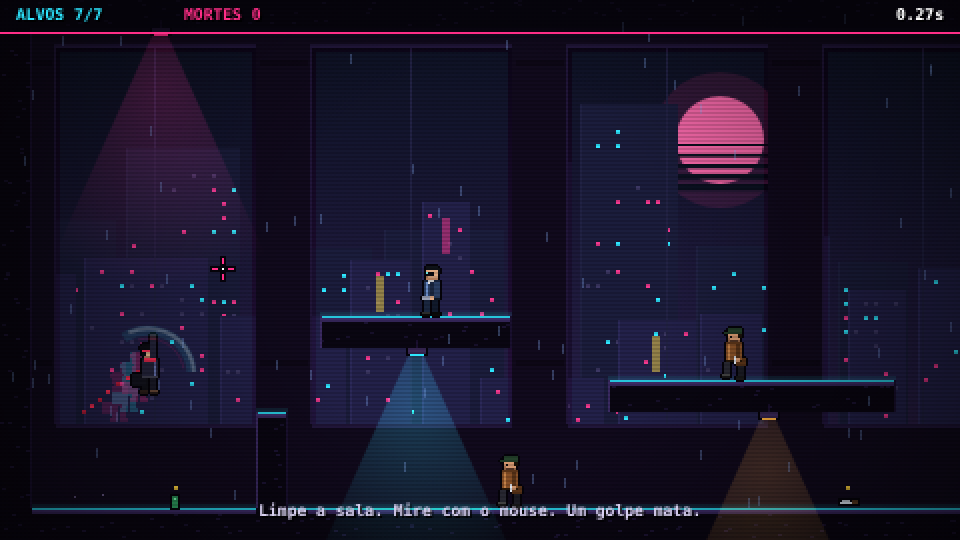
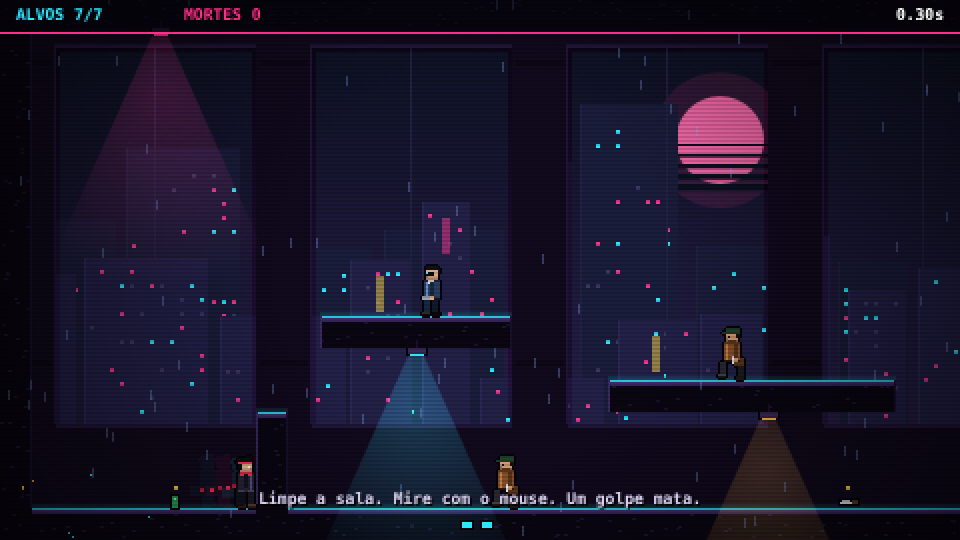
feat: replace slow-mo with Shift dash in mercenario spike
Shift dashes in 8 directions from WASD (toward the cursor with no key),
invulnerable while dashing, 2 air dashes that reset on ground or wall.
Slow-motion removed per playtest feedback.

Task: /prototype spike mercenario-spike-2026-11-20

Claude-Session: https://claude.ai/code/session_01LgXTLrRLZzJK2cJsyZyNnR

diff --git a/prototypes/mercenario-spike-2026-11-20/index.html b/prototypes/mercenario-spike-2026-11-20/index.html
@@ -33,7 +33,8 @@ const CONTROLS = [
   'S no chão: rolar (invencível)      S no ar: cair rápido',
   'CLIQUE ESQUERDO: golpe com avanço para onde o mouse aponta',
   'no ar: 2 avanços (recarregam no chão ou na parede) · golpeie balas para rebater',
-  'CLIQUE DIREITO / E: pegar, arremessar, atirar      SHIFT segurado: câmera lenta',
+  'SHIFT: dash (WASD escolhe a direção, sem tecla vai para o mouse) · 2 no ar',
+  'CLIQUE DIREITO / E: pegar, arremessar, atirar',
   'R: recomeçar sala   ESC / P: pausa   M: som',
 ];
 const clock = window.GAME_CLOCK || { now: () => performance.now() / 1000 };
@@ -127,7 +128,7 @@ const sfx = {
   walljump: () => tone(520, 0.09, 'square', 0.12, 1.5),
   land: () => noise(0.05, 0.12, 300),
   roll: () => noise(0.25, 0.12, 1500),
-  slowIn: () => tone(500, 0.35, 'sine', 0.15, 0.4),
+  dash: () => { noise(0.12, 0.25, 2000); tone(300, 0.12, 'sawtooth', 0.08, 2.5); },
   swing: () => { noise(0.09, 0.28, 3000); tone(900, 0.07, 'sawtooth', 0.06, 0.4); },
   kill: () => { noise(0.2, 0.4, 150); tone(90, 0.25, 'sawtooth', 0.25, 0.4); },
   deflect: () => { tone(1800, 0.12, 'square', 0.15, 0.6); noise(0.08, 0.3, 4000); },
@@ -241,13 +242,13 @@ function reset() {
 function restartRoom() {
   const p = { type: 'player', x: 3 * TS + 3, y: 16 * TS - 20.01, w: 10, h: 20, vx: 0, vy: 0, f: 1, alive: true,
     coyote: 0, buffer: 0, wallLock: 0, dashT: 0, attackT: 0, attackCd: 0, rollT: 0, rolling: false, aim: 0, aimY: 0,
-    airAttacks: tune.air_attacks, held: null, grounded: true, phase: 0, landed: 0, scarf: [], ghostTick: 0 };
+    airAttacks: tune.air_attacks, airDashes: tune.air_dashes, dashCd: 0, invT: 0, dashKind: '', held: null, grounded: true, phase: 0, landed: 0, scarf: [], ghostTick: 0 };
   for (let i = 0; i < 7; i++) p.scarf.push({ x: p.x, y: p.y + 6 });
   Object.assign(state, {
     t: 0, p, enemies: SPAWNS.map(s => makeActor(...s)),
     items: ITEMS.map(([type, c, r]) => ({ type, x: c * TS + 4, y: r * TS - 6, w: 8, h: 6, vx: 0, vy: 0, mode: 'ground', ammo: 0, spin: 0 })),
     bullets: [], parts: [], decals: [], ghosts: [], slashes: [], shake: 0, hitstop: 0, flash: 0, deadT: 0, clearT: 0,
-    cleared: false, kills: 0, cam: { x: 0, y: LH - H }, score: 0, glitch: 0.25, slowMeter: tune.slowmo_max, slowOn: false,
+    cleared: false, kills: 0, cam: { x: 0, y: LH - H }, score: 0, glitch: 0.25,
   });
   state.total = state.enemies.length;
 }
@@ -261,7 +262,7 @@ function killEnemy(e, dirX, dirY = -0.4) {
   sfx.kill(); events.push({ type: 'kill', enemy: e.type });
 }
 function killPlayer(dirX) {
-  const p = state.p; if (!p.alive || state.cleared || p.rolling) return; // rolando = invencível
+  const p = state.p; if (!p.alive || state.cleared || p.rolling || p.invT > 0) return; // rolando ou no dash = invencível
   if (p.rolling) endRoll(p);
   p.alive = false; state.deadT = tune.restart_delay; state.deaths++; state.shake = tune.shake * 1.5; state.glitch = tune.restart_delay;
   gore(p.x + p.w / 2, p.y + 8, dirX, 34); p.vx = dirX * 160; p.vy = -150;
@@ -294,10 +295,14 @@ function updatePlayer(dt) {
 
   const wasGround = p.grounded;
   p.grounded = onGround(p);
-  if (p.grounded) { p.coyote = tune.coyote_time; p.airAttacks = tune.air_attacks; } else p.coyote -= dt;
+  if (p.grounded) { p.coyote = tune.coyote_time; p.airAttacks = tune.air_attacks; p.airDashes = tune.air_dashes; } else p.coyote -= dt;
   if (p.grounded && !wasGround && p.vyBefore > 200) { sfx.land(); p.landed = 0.1; sparks(p.x + p.w / 2, p.y + p.h, '#6a5a8a', 5); }
   p.buffer = jumpHit ? tune.jump_buffer : p.buffer - dt;
-  p.wallLock -= dt; p.dashT -= dt; p.attackCd -= dt; p.landed -= dt;
+  p.wallLock -= dt; p.attackCd -= dt; p.landed -= dt; p.dashCd -= dt; p.invT -= dt;
+  const wasDash = p.dashT > 0; p.dashT -= dt;
+  if (wasDash && p.dashT <= 0 && p.dashKind === 'dash') { // fim do dash: perde parte da velocidade
+    p.vx *= tune.dash_end_keep; if (p.vy < 0) p.vy *= tune.dash_end_keep; p.dashKind = '';
+  }
   const wallL = rectHits(p.x - 2, p.y + 3, 2, p.h - 6), wallR = rectHits(p.x + p.w, p.y + 3, 2, p.h - 6);
   p.aim = aimAngle(p);
 
@@ -336,7 +341,7 @@ function updatePlayer(dt) {
   } else if (p.buffer > 0 && !p.grounded && (wallL || wallR) && !p.rolling) {
     const away = wallL ? 1 : -1;
     p.vy = -v0 * tune.wall_jump_up; p.vx = away * tune.wall_jump_push; p.f = away;
-    p.wallLock = tune.wall_jump_lock; p.buffer = 0; p.airAttacks = tune.air_attacks; p.noCut = true; sfx.walljump();
+    p.wallLock = tune.wall_jump_lock; p.buffer = 0; p.airAttacks = tune.air_attacks; p.airDashes = tune.air_dashes; p.noCut = true; sfx.walljump();
     sparks(wallL ? p.x : p.x + p.w, p.y + p.h / 2, PAL.neonB, 6);
   }
   let grav = g;
@@ -346,7 +351,22 @@ function updatePlayer(dt) {
   else if (!jumpHeld && !p.noCut) grav *= tune.jump_cut_gravity_mult;
   p.vy = Math.min(p.vy + grav * dt, tune.max_fall_speed);
   p.wallSliding = !p.grounded && p.vy > 0 && ((wallL && dir < 0) || (wallR && dir > 0));
-  if (p.wallSliding) { p.vy = Math.min(p.vy, tune.wall_slide_speed); p.f = wallL ? 1 : -1; p.airAttacks = tune.air_attacks; }
+  if (p.wallSliding) { p.vy = Math.min(p.vy, tune.wall_slide_speed); p.f = wallL ? 1 : -1; p.airAttacks = tune.air_attacks; p.airDashes = tune.air_dashes; }
+
+  // Dash (SHIFT): WASD escolhe a direção (8 direções); sem tecla, vai para o mouse
+  if (anyHit('ShiftLeft', 'ShiftRight') && p.dashCd <= 0 && (p.grounded || p.airDashes > 0) && (!p.rolling || !rectHits(p.x, p.y - 10, p.w, 20))) {
+    if (p.rolling) endRoll(p);
+    const ky = (anyDown('KeyW', 'ArrowUp') ? -1 : 0) + (anyDown('KeyS', 'ArrowDown') ? 1 : 0);
+    let ang = (dir !== 0 || ky !== 0) ? Math.atan2(ky, dir) : p.aim;
+    if (p.grounded && Math.sin(ang) > 0.2) ang = Math.cos(ang) >= 0 ? 0 : Math.PI; // no chão, para baixo vira horizontal
+    if (!p.grounded) p.airDashes--;
+    p.vx = Math.cos(ang) * tune.dash_speed; p.vy = Math.sin(ang) * tune.dash_speed;
+    p.dashT = tune.dash_duration; p.dashKind = 'dash'; p.invT = tune.dash_duration + 0.04; p.dashCd = tune.dash_cooldown; p.noCut = true;
+    if (Math.abs(Math.cos(ang)) > 0.2) p.f = Math.cos(ang) > 0 ? 1 : -1;
+    if (p.grounded && Math.sin(ang) < -0.2) p.grounded = false;
+    sfx.dash(); sparks(p.x + p.w / 2, p.y + p.h / 2, PAL.neonB, 8); state.shake = Math.max(state.shake, 1);
+    events.push({ type: 'dash' });
+  }
 
   // Golpe na direção do mouse
   if (anyHit('Mouse0', 'KeyX', 'KeyJ') && p.attackCd <= 0 && (!p.rolling || !rectHits(p.x, p.y - 10, p.w, 20))) {
@@ -359,9 +379,9 @@ function updatePlayer(dt) {
     if (launch) { // avanço completo em qualquer direção: cima, diagonal, baixo
       p.vx = cs * d;
       if (!(p.grounded && sn > 0)) p.vy = sn * d;
-      p.dashT = tune.dash_time; p.noCut = true;
+      p.dashT = tune.attack_dash_time; p.dashKind = 'attack'; p.noCut = true;
     } else { // sem carga no ar: golpe curto que segura a queda um instante
-      p.vx = cs * d * 0.45; p.vy = Math.min(p.vy, 20); p.dashT = 0.04;
+      p.vx = cs * d * 0.45; p.vy = Math.min(p.vy, 20); p.dashT = 0.04; p.dashKind = 'attack';
     }
     if (p.grounded && sn < -0.2) p.grounded = false;
     state.slashes.push({ ang, t: 0.16, max: 0.16 });
@@ -414,7 +434,7 @@ function updatePlayer(dt) {
 
   // Rastro (afterimages) quando rápido
   p.ghostTick++;
-  if ((p.dashT > 0 || p.rolling || p.wallLock > 0 || Math.abs(p.vx) > tune.run_speed * 1.15) && p.ghostTick % 2 === 0) {
+  if ((p.dashT > 0 || p.rolling || p.wallLock > 0 || Math.abs(p.vx) > tune.run_speed * 1.15) && (p.ghostTick % 2 === 0 || p.invT > 0)) {
     state.ghosts.push({ ...p, scarf: null, held: null, life: 0.22, max: 0.22, c: state.ghosts.length % 2 ? PAL.neonB : PAL.neonA });
     if (state.ghosts.length > 14) state.ghosts.shift();
   }
@@ -508,7 +528,7 @@ function updateBullets(dt) {
     if (b.dead) continue;
     b.x += b.vx * dt; b.y += b.vy * dt; b.life -= dt;
     if (solidAt(b.x, b.y) || b.life <= 0) { b.dead = true; sparks(b.x, b.y, PAL.neonC, 3); continue; }
-    if (b.enemy) { if (p.alive && !p.rolling && b.x > p.x && b.x < p.x + p.w && b.y > p.y && b.y < p.y + p.h) { b.dead = true; killPlayer(sign(b.vx)); } }
+    if (b.enemy) { if (p.alive && !p.rolling && !(p.invT > 0) && b.x > p.x && b.x < p.x + p.w && b.y > p.y && b.y < p.y + p.h) { b.dead = true; killPlayer(sign(b.vx)); } }
     else for (const e of state.enemies) if (e.alive && b.x > e.x - 1 && b.x < e.x + e.w + 1 && b.y > e.y && b.y < e.y + e.h) { b.dead = true; killEnemy(e, sign(b.vx)); break; }
   }
   state.bullets = state.bullets.filter(b => !b.dead);
@@ -769,10 +789,6 @@ function drawWorld() {
   postFX();
 }
 function postFX() {
-  if (state.slowOn) { // câmera lenta: tela puxa para o ciano, bordas escurecem
-    ctx.fillStyle = 'rgba(46,230,255,0.10)'; ctx.fillRect(0, 0, W, H);
-    ctx.fillStyle = 'rgba(5,3,10,0.35)'; ctx.fillRect(0, 0, W, 10); ctx.fillRect(0, H - 10, W, 10);
-  }
   if (state.flash > 0) { // aberração cromática e clarão no abate
     ctx.globalCompositeOperation = 'lighter'; ctx.globalAlpha = 0.35;
     ctx.drawImage(canvas, 0, 0, canvas.width, canvas.height, 2, 0, W, H);
@@ -805,10 +821,10 @@ function drawHUD() {
   shadowText(`${state.t.toFixed(2)}s`, W - 8, 8, 8, '#fff', 'right');
   if (best !== null) shadowText(`RECORDE ${best.toFixed(2)}s`, W - 70, 8, 8, PAL.neonC, 'right');
   if (p.held) shadowText(p.held.type === 'pistol' ? `PISTOLA x${p.held.ammo}` : p.held.type === 'knife' ? 'FACA' : 'GARRAFA', W / 2, 8, 8, PAL.neonC);
-  if (tune.slowmo_enabled > 0) { // barra da câmera lenta
-    const bw = 60, fr = state.slowMeter / tune.slowmo_max;
-    ctx.fillStyle = PAL.outline; ctx.fillRect(W / 2 - bw / 2 - 1, H - 9, bw + 2, 5);
-    ctx.fillStyle = state.slowOn ? '#ffffff' : PAL.neonB; ctx.fillRect(W / 2 - bw / 2, H - 8, Math.round(bw * fr), 3);
+  for (let i = 0, n = tune.air_dashes; i < n; i++) { // cargas de dash no ar
+    const x = Math.round(W / 2 - n * 5 + i * 10);
+    ctx.fillStyle = PAL.outline; ctx.fillRect(x, H - 10, 7, 5);
+    ctx.fillStyle = i < p.airDashes ? PAL.neonB : '#2a1d44'; ctx.fillRect(x + 1, H - 9, 5, 3);
   }
   if (!p.alive) shadowText('MORTO', W / 2, H / 2, 16, PAL.neonA);
   if (state.t < 4 && state.deaths === 0) shadowText('Limpe a sala. Mire com o mouse. Um golpe mata.', W / 2, H - 20, 8, '#d8d0f0');
@@ -855,13 +871,8 @@ const scenes = {
       if (pressed('KeyR')) { restartRoom(); return; }
       state.shake = Math.max(0, state.shake - dt * 20); state.flash = Math.max(0, state.flash - dt); state.glitch = Math.max(0, state.glitch - dt);
       if (state.hitstop > 0) { state.hitstop -= dt; return; }
-      const slow = tune.slowmo_enabled > 0 && anyDown('ShiftLeft', 'ShiftRight') && state.slowMeter > 0.05 && state.p.alive && !state.cleared;
-      if (slow && !state.slowOn) sfx.slowIn();
-      state.slowOn = slow;
-      state.slowMeter = slow ? Math.max(0, state.slowMeter - dt) : Math.min(tune.slowmo_max, state.slowMeter + dt * tune.slowmo_recharge);
-      const wdt = dt * (slow ? tune.slowmo_world_scale : 1), pdt = dt * (slow ? tune.slowmo_player_scale : 1);
       if (state.p.alive && !state.cleared) state.t += dt;
-      updatePlayer(pdt); updateEnemies(wdt); updateItems(wdt); updateBullets(wdt); updateParts(wdt);
+      updatePlayer(dt); updateEnemies(dt); updateItems(dt); updateBullets(dt); updateParts(dt);
       const p = state.p, tx = p.x + p.w / 2 - W / 2 + p.f * tune.camera_lookahead + (mouse.seen ? (mouse.x - W / 2) * 0.15 : 0);
       state.cam.x += (Math.max(0, Math.min(LW - W, tx)) - state.cam.x) * Math.min(1, dt * 6);
       state.cam.y = LH - H;

diff --git a/prototypes/mercenario-spike-2026-11-20/config.js b/prototypes/mercenario-spike-2026-11-20/config.js
@@ -32,7 +32,7 @@ window.CONFIG = {
   // ---- Combate do jogador ----
   attack_reach: { value: 22, min: 8, max: 48, step: 1 },          // px, alcance do golpe na direção do mouse
   attack_dash: { value: 420, min: 0, max: 500, step: 5 },         // px/s, avanço do golpe na direção do mouse
-  dash_time: { value: 0.1, min: 0, max: 0.4, step: 0.01 },       // s em que o avanço ignora o controle
+  attack_dash_time: { value: 0.1, min: 0, max: 0.4, step: 0.01 },       // s em que o avanço ignora o controle
   air_attacks: { value: 2, min: 0, max: 5, step: 1 },             // golpes com avanço no ar antes de tocar chão/parede
   attack_cooldown: { value: 0.22, min: 0.08, max: 0.8, step: 0.01 }, // s entre golpes
   deflect_speed_mult: { value: 1.6, min: 0.5, max: 3, step: 0.1 }, // bala rebatida volta mais rápida
@@ -54,12 +54,12 @@ window.CONFIG = {
   gunner_cooldown: { value: 1.1, min: 0.3, max: 3, step: 0.05 },  // s entre tiros
   enemy_bullet_speed: { value: 290, min: 100, max: 700, step: 10 },// px/s
 
-  // ---- Câmera lenta (SHIFT segurado) ----
-  slowmo_enabled: { value: 1, min: 0, max: 1, step: 1 },          // 1 liga, 0 desliga
-  slowmo_world_scale: { value: 0.3, min: 0.1, max: 1, step: 0.05 },  // velocidade do mundo na câmera lenta
-  slowmo_player_scale: { value: 0.6, min: 0.1, max: 1, step: 0.05 }, // velocidade do jogador na câmera lenta
-  slowmo_max: { value: 3, min: 0.5, max: 10, step: 0.25 },        // s de câmera lenta com a barra cheia
-  slowmo_recharge: { value: 0.5, min: 0, max: 3, step: 0.05 },    // s de barra recuperados por segundo
+  // ---- Dash (SHIFT) ----
+  dash_speed: { value: 480, min: 150, max: 900, step: 10 },       // px/s durante o dash
+  dash_duration: { value: 0.13, min: 0.05, max: 0.4, step: 0.01 },// s de dash (invencível)
+  dash_end_keep: { value: 0.55, min: 0, max: 1, step: 0.05 },     // fração da velocidade mantida ao fim do dash
+  dash_cooldown: { value: 0.3, min: 0, max: 1.5, step: 0.05 },    // s entre dashes
+  air_dashes: { value: 2, min: 0, max: 5, step: 1 },              // dashes no ar antes de tocar chão ou parede
 
   // ---- Sensação ----
   restart_delay: { value: 0.45, min: 0.1, max: 1.5, step: 0.05 }, // s entre morrer e a sala recomeçar

diff --git a/prototypes/mercenario-spike-2026-11-20/README.md b/prototypes/mercenario-spike-2026-11-20/README.md
@@ -7,7 +7,7 @@
 
 **Como rodar:** abra `index.html` no navegador (funciona offline). Todos os valores de ajuste estão em `config.js`.
 
-**Controles:** A D para mover · W/Espaço para pular (na parede, pulo na parede) · S no chão rola (invencível), no ar cai rápido · clique esquerdo golpeia com avanço para onde o mouse aponta (2 avanços no ar) · clique direito/E pega, arremessa e atira · Shift segurado ativa a câmera lenta · R recomeça.
+**Controles:** A D para mover · W/Espaço para pular (na parede, pulo na parede) · S no chão rola (invencível), no ar cai rápido · clique esquerdo golpeia com avanço para onde o mouse aponta (2 avanços no ar) · clique direito/E pega, arremessa e atira · Shift dá um dash invencível (WASD escolhe a direção, sem tecla vai para o mouse; 2 no ar) · R recomeça.
 
 **Conteúdo:** uma sala com 7 inimigos (3 capangas de faca, 4 atiradores com laser de mira), garrafas, uma faca e as pistolas que os atiradores deixam cair.
 
